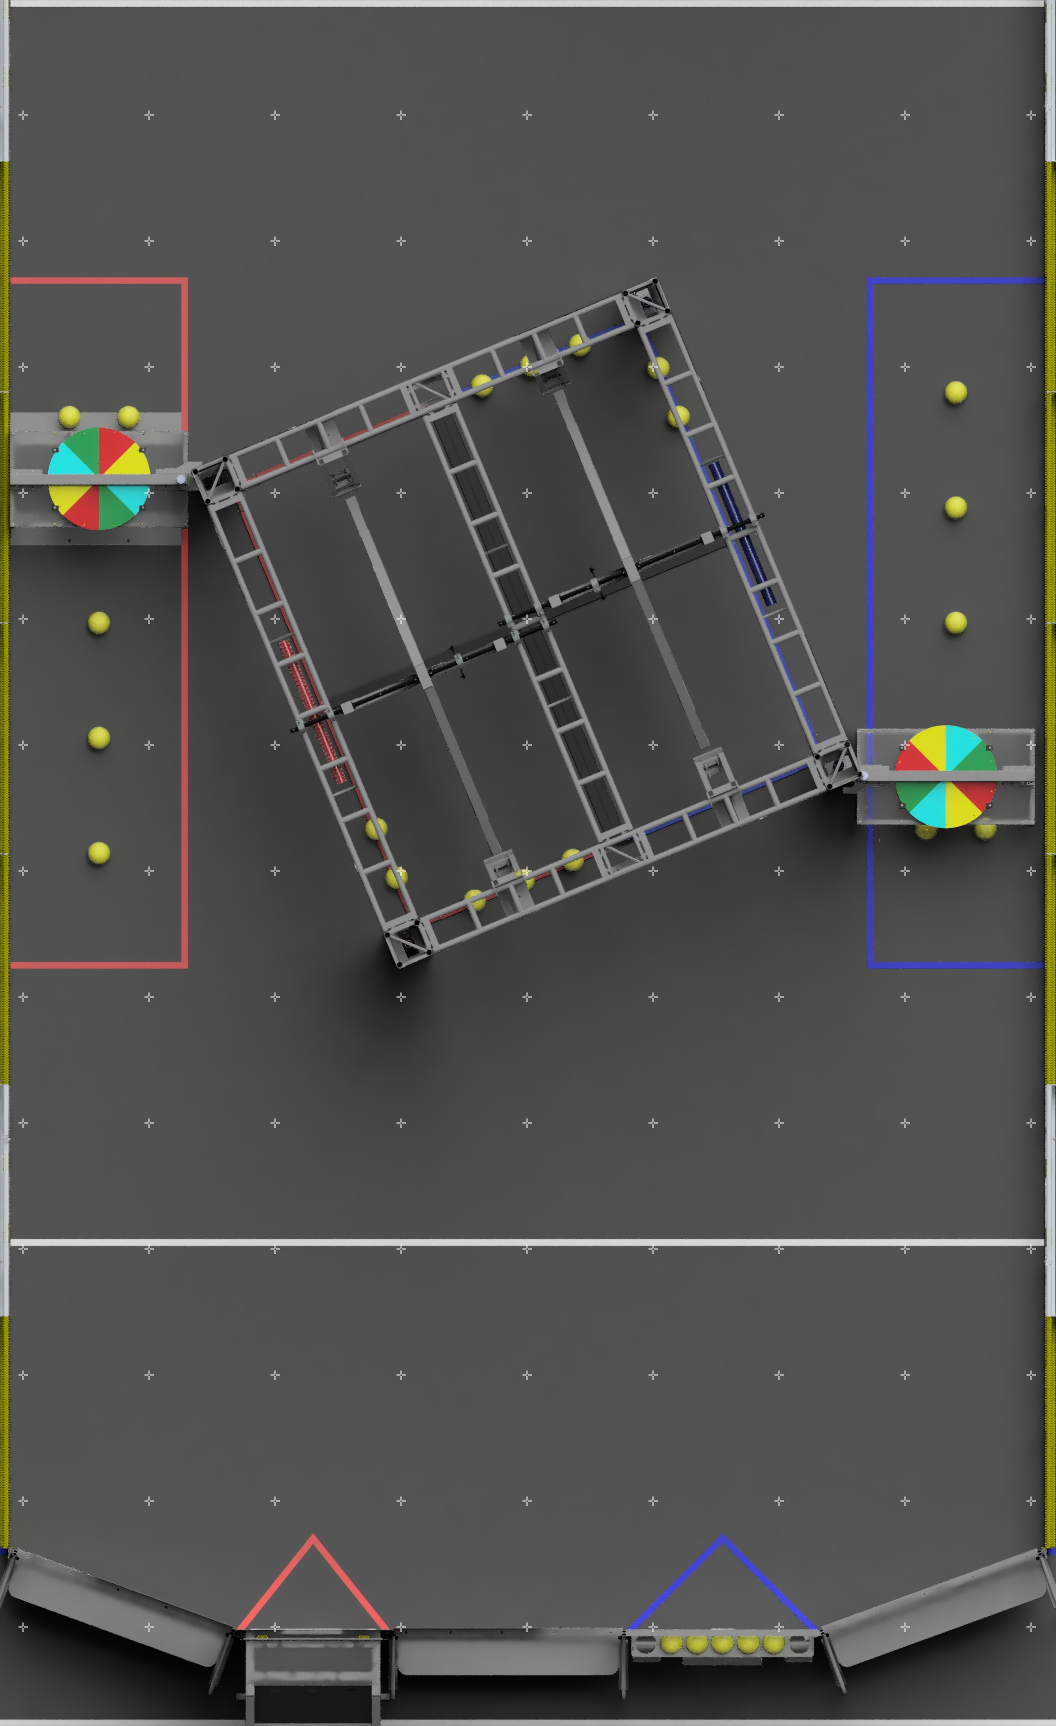
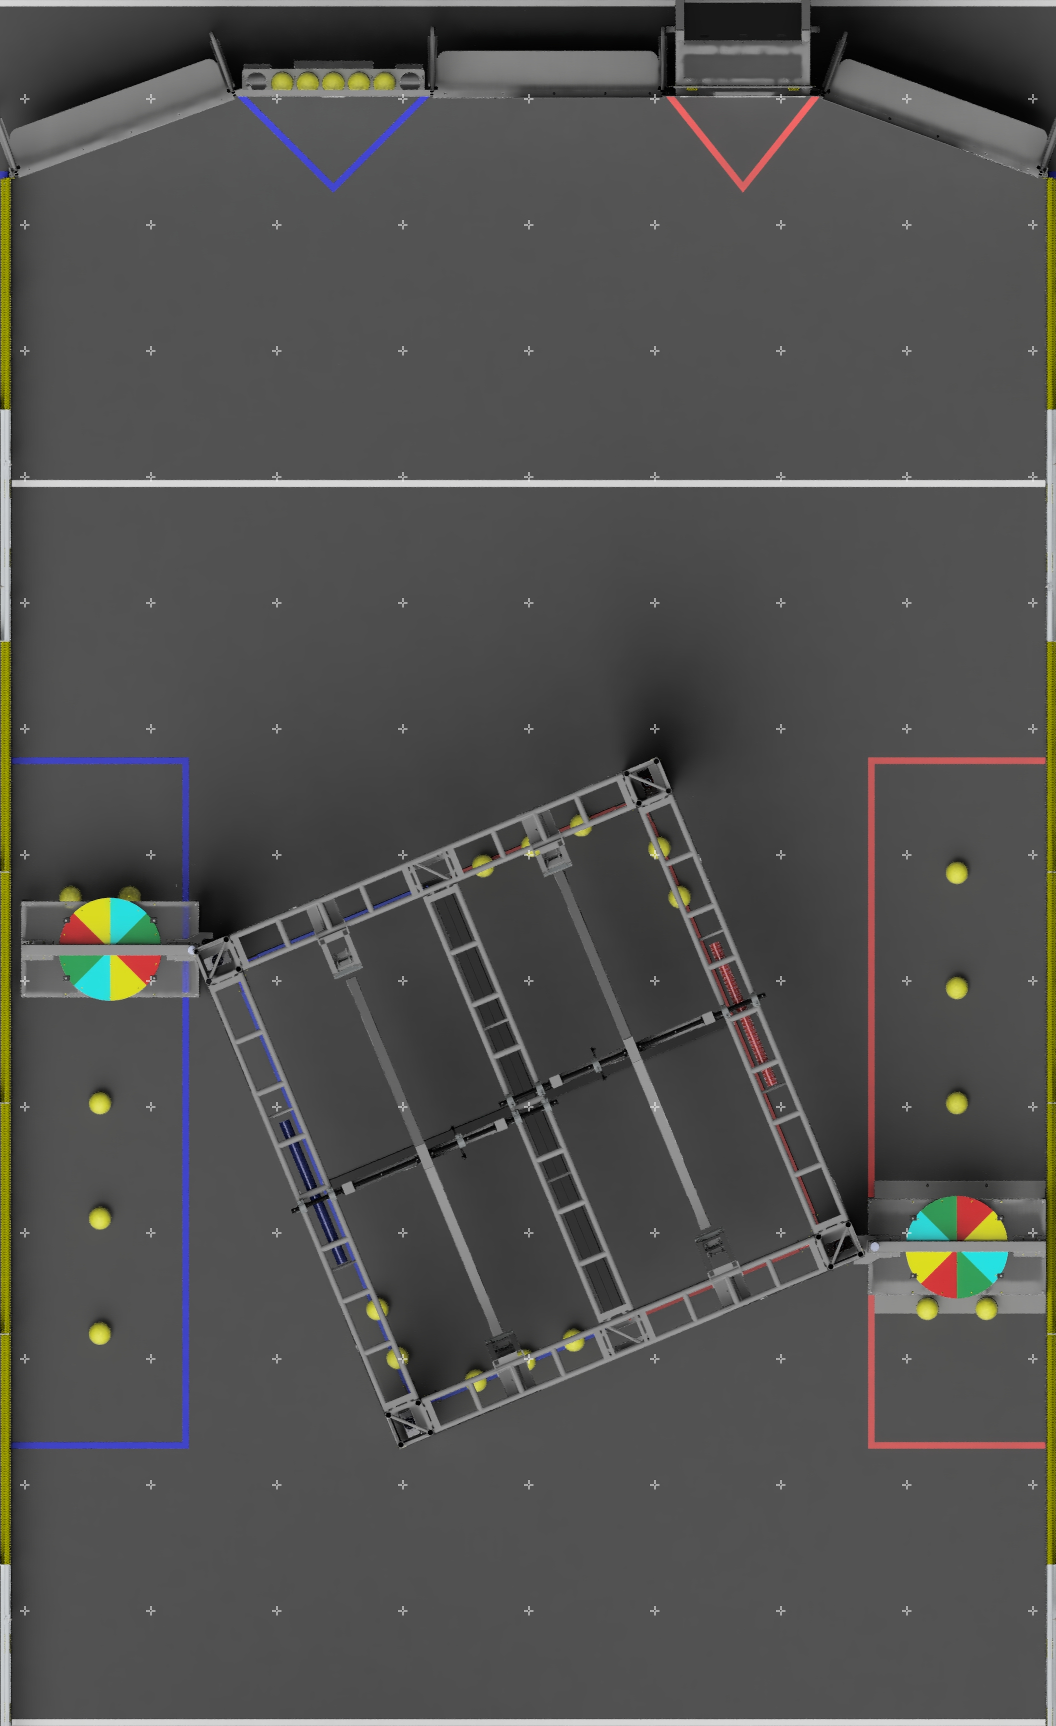
animation working

diff --git a/src/main/java/frc/modeling/Animation.java b/src/main/java/frc/modeling/Animation.java
@@ -72,7 +72,7 @@ public class Animation extends JPanel implements Runnable {
 		fieldImageHeight = field.getHeight(this);
 		robotImageWidth = robot.getWidth(this);
 		robotImageHeight = robot.getHeight(this);
-		scale = fieldImageHeight / FIELD_REAL_WIDTH;
+		scale = fieldImageWidth / FIELD_REAL_WIDTH;
 
 		model = new DrivetrainModel();
 		nav = new CubicSplineFollower(DrivetrainModel.MAX_SPEED, DrivetrainModel.WHEEL_BASE);
@@ -89,53 +89,12 @@ public class Animation extends JPanel implements Runnable {
 
 	private void setWaypoints() {
 
-		// // Spider Y 2 Banana
-		// model.setPosition(0.5, 0.5, 0.0);
-		// nav.addWaypoint(new Waypoint(1.1, 3.0, 25.0, 1.0, true));
-		// nav.addWaypoint(new Waypoint(0.0, 1.0, 0.0, -1.0, true));
-		// nav.addWaypoint(new Waypoint(0.0, 2.0, 0.0, 1.0, true));
-		// nav.addWaypoint(new Waypoint(-0.3, 1.3, 45.0, -1.0, true));
-		// nav.addWaypoint(new Waypoint(1.1, 3.0, 30.0, 1.0, true));
-		// nav.addWaypoint(new Waypoint(0.0, 1.0, 0.0, -1.0, true));
-		// nav.addWaypoint(new Waypoint(0.0, 2.5, 0.0, 1.0, true));
-		// nav.addWaypoint(new Waypoint(-0.3, 1.5, 45.0, -1.0, true));
-		// nav.addWaypoint(new Waypoint(1.1, 3.0, 30.0, 1.0, true));
-
-		// // Poofs 2018 Near Side
-		// model.setPosition(2.8, 0.5, 0.0);
-		// nav.addWaypoint(new Waypoint(2.2, 7.3, -10.0, 1.0, true));
-		// nav.addWaypoint(new Waypoint(1.9, 5.5, 30.0, -1.0, true));
-		// nav.addWaypoint(new Waypoint(2.2, 7.3, -10.0, 1.0, true));
-		// nav.addWaypoint(new Waypoint(1.5, 5.7, 40.0, -1.0, true));
-		// nav.addWaypoint(new Waypoint(2.2, 7.3, 0.0, 1.0, true));
-		// nav.addWaypoint(new Waypoint(1.0, 5.6, 60.0, -1.0, true));
-		// nav.addWaypoint(new Waypoint(2.2, 7.3, 0.0, 1.0, true));
-
-		// // Poofs 2018 Oppos Side
-		// model.setPosition(2.8, 0.5, 0.0);
-		// nav.addWaypoint(new Waypoint(2.2, 5.6, -50.0, 1.0));
-		// nav.addWaypoint(new Waypoint(-2.1, 6.0, -70.0, 0.8));
-		// nav.addWaypoint(new Waypoint(-2.2, 7.3, 15.0, 0.6, true));
-		// nav.addWaypoint(new Waypoint(-2.2, 5.8, -25.0, -1.0, true));
-		// nav.addWaypoint(new Waypoint(-2.2, 7.3, 15.0, 1.0, true));
-		// nav.addWaypoint(new Waypoint(-1.5, 5.7, -40.0, -1.0, true));
-		// nav.addWaypoint(new Waypoint(-2.2, 7.3, 15.0, 1.0, true));
-		// nav.addWaypoint(new Waypoint(-1.0, 5.6, -65.0, -1.0, true));
-		// nav.addWaypoint(new Waypoint(-2.2, 7.3, 15.0, 1.0, true));
-
 		// // Right Side of cargo ship x2
 		// model.setPosition(1.2, 0.7, 0.0);
 		// nav.addWaypoint(new Waypoint(1.2, 3.0, 0.0, 0.5, false));
 		// nav.addWaypoint(new Waypoint(1.1, 6.6, -10.0, 1.0, true));
 		// nav.addWaypoint(new Waypoint(3.3, 0.5, -10.0, -1.0, true));
 		// nav.addWaypoint(new Waypoint(1.1, 7.2, -10.0, 1.0, true));
-
-		// // Left Side of cargo ship x2
-		// model.setPosition(-1.2, 0.7, -0.0);
-		// nav.addWaypoint(new Waypoint(-1.2, 3.0, -0.0, 0.5, false));
-		// nav.addWaypoint(new Waypoint(-1.1, 6.6, 10.0, 1.0, true));
-		// nav.addWaypoint(new Waypoint(-3.3, 0.5, 10.0, -1.0, true));
-		// nav.addWaypoint(new Waypoint(-1.1, 7.2, 10.0, 1.0, true));
 
 		// // Right rocket
 		// model.setPosition(1.2, 0.7, 0.0);
@@ -147,24 +106,11 @@ public class Animation extends JPanel implements Runnable {
 		// nav.addWaypoint(new Waypoint(3.1, 4.7, -60.0, 0.6, true));
 		// nav.addWaypoint(new Waypoint(2.0, 7.2, 0.0, 0.6, true));
 
-		// // Left rocket
-		// model.setPosition(-1.2, 0.7, -0.0);
-		// nav.addWaypoint(new Waypoint(-1.2, 3.0, -0.0, 0.5));
-		// nav.addWaypoint(new Waypoint(-3.5, 6.6, -60.0, 1.0, true));
-		// nav.addWaypoint(new Waypoint(-2.8, 6.1, -50.0, -0.6));
-		// nav.addWaypoint(new Waypoint(-3.4, 0.5, -0.0, -1.0, true));
-		// nav.addWaypoint(new Waypoint(-3.4, 4.3, -0.0, 1.0));
-		// nav.addWaypoint(new Waypoint(-3.2, 4.7, 60.0, 0.6, true));
-
-		// // Beautiful 90
-		// model.setPosition(0.0, 1.0, 0.0);
-		// nav.addWaypoint(new Waypoint(1.0, 3.0, 90.0, 1.0, true));
-
-		// // Tine S Curve
-		// model.setPosition(0.0, 1.0, 0.0);
-		// nav.addWaypoint(new Waypoint(0.3, 2.0, 0.0, 0.5, true));
-		model.setPosition(0.0, 5.0, 0.0);
-
+		model.setPosition(-3.3, -3.5, 0.0);
+		nav.addWaypoint(new Waypoint(-3.3, -5.8, 0.0, -0.8, true));
+		nav.addWaypoint(new Waypoint(0.5, -3.0, 50.0, 0.8, true));
+		nav.addWaypoint(new Waypoint(-0.2, -5.5, -25.0, -0.8, true));
+		nav.addWaypoint(new Waypoint(1.0, -3.0, 0.0, 0.8, true));
 	}
 
 	// Update function
@@ -189,11 +135,9 @@ public class Animation extends JPanel implements Runnable {
 		offScreen.drawImage(robotRotated, robotImageOffsetX, robotImageOffsetY, this);
 
 		// Draw waypoints
-		// Tuple waypointLoc = fieldCoordsToImageCoords(nav.getCurrentWaypoint().x,
-		// nav.getCurrentWaypoint().y);
-		// offScreen.setColor(Color.yellow);
-		// offScreen.drawOval((int) waypointLoc.left - 3, (int) waypointLoc.right - 3,
-		// 6, 6);
+		Tuple waypointLoc = fieldCoordsToImageCoords(nav.getCurrentWaypoint().x, nav.getCurrentWaypoint().y);
+		offScreen.setColor(Color.yellow);
+		offScreen.drawOval((int) waypointLoc.left - 3, (int) waypointLoc.right - 3, 6, 6);
 
 		// Draw trajectory
 		for (Tuple point : trajectory) {
@@ -209,7 +153,7 @@ public class Animation extends JPanel implements Runnable {
 
 	private Tuple fieldCoordsToImageCoords(double x, double y) {
 		int newX = (int) ((fieldImageWidth / 2) + x * scale);
-		int newY = (int) ((fieldImageHeight - 200) - y * scale);
+		int newY = (int) (fieldImageHeight * 0.0 - (y - 0.73) * scale);
 		return new Tuple(newX, newY);
 	}
 
@@ -223,13 +167,14 @@ public class Animation extends JPanel implements Runnable {
 		BufferedImage rotated = new BufferedImage(newWidth, newHeight, BufferedImage.TYPE_INT_ARGB);
 		Graphics2D g2d = rotated.createGraphics();
 		AffineTransform at = new AffineTransform();
-		at.translate((newWidth - robotImageWidth) / 2, (newHeight - robotImageHeight) / 2);
+		double robotScale = scale / robotImageHeight * 1.0;
+		at.translate((newWidth - robotImageWidth * robotScale) / 2, (newHeight - robotImageHeight * robotScale) / 2);
+		at.scale(robotScale, robotScale);
 
 		int x = robotImageWidth / 2;
 		int y = robotImageHeight / 2;
 
 		at.rotate(model.center.r, x, y);
-		g2d.scale(scale / robotImageHeight, scale / robotImageHeight);
 		g2d.setTransform(at);
 		g2d.drawImage(robot, 0, 0, this);
 		g2d.dispose();

diff --git a/src/main/java/frc/controls/CubicSplineFollower.java b/src/main/java/frc/controls/CubicSplineFollower.java
@@ -28,7 +28,7 @@ public class CubicSplineFollower {
 
     public Boolean isFinished = false;
 
-    private static final double kMaxAccelDefault = 0.05; // m/s^2 * 200
+    private static final double kMaxAccelDefault = 0.1; // m/s^2 * 200
     private double kMaxAccel;
     private static final double kSlowdownRadiusCritical = 1.3;
     private static final double kMinApproachSpeedCritical = 0.2;
